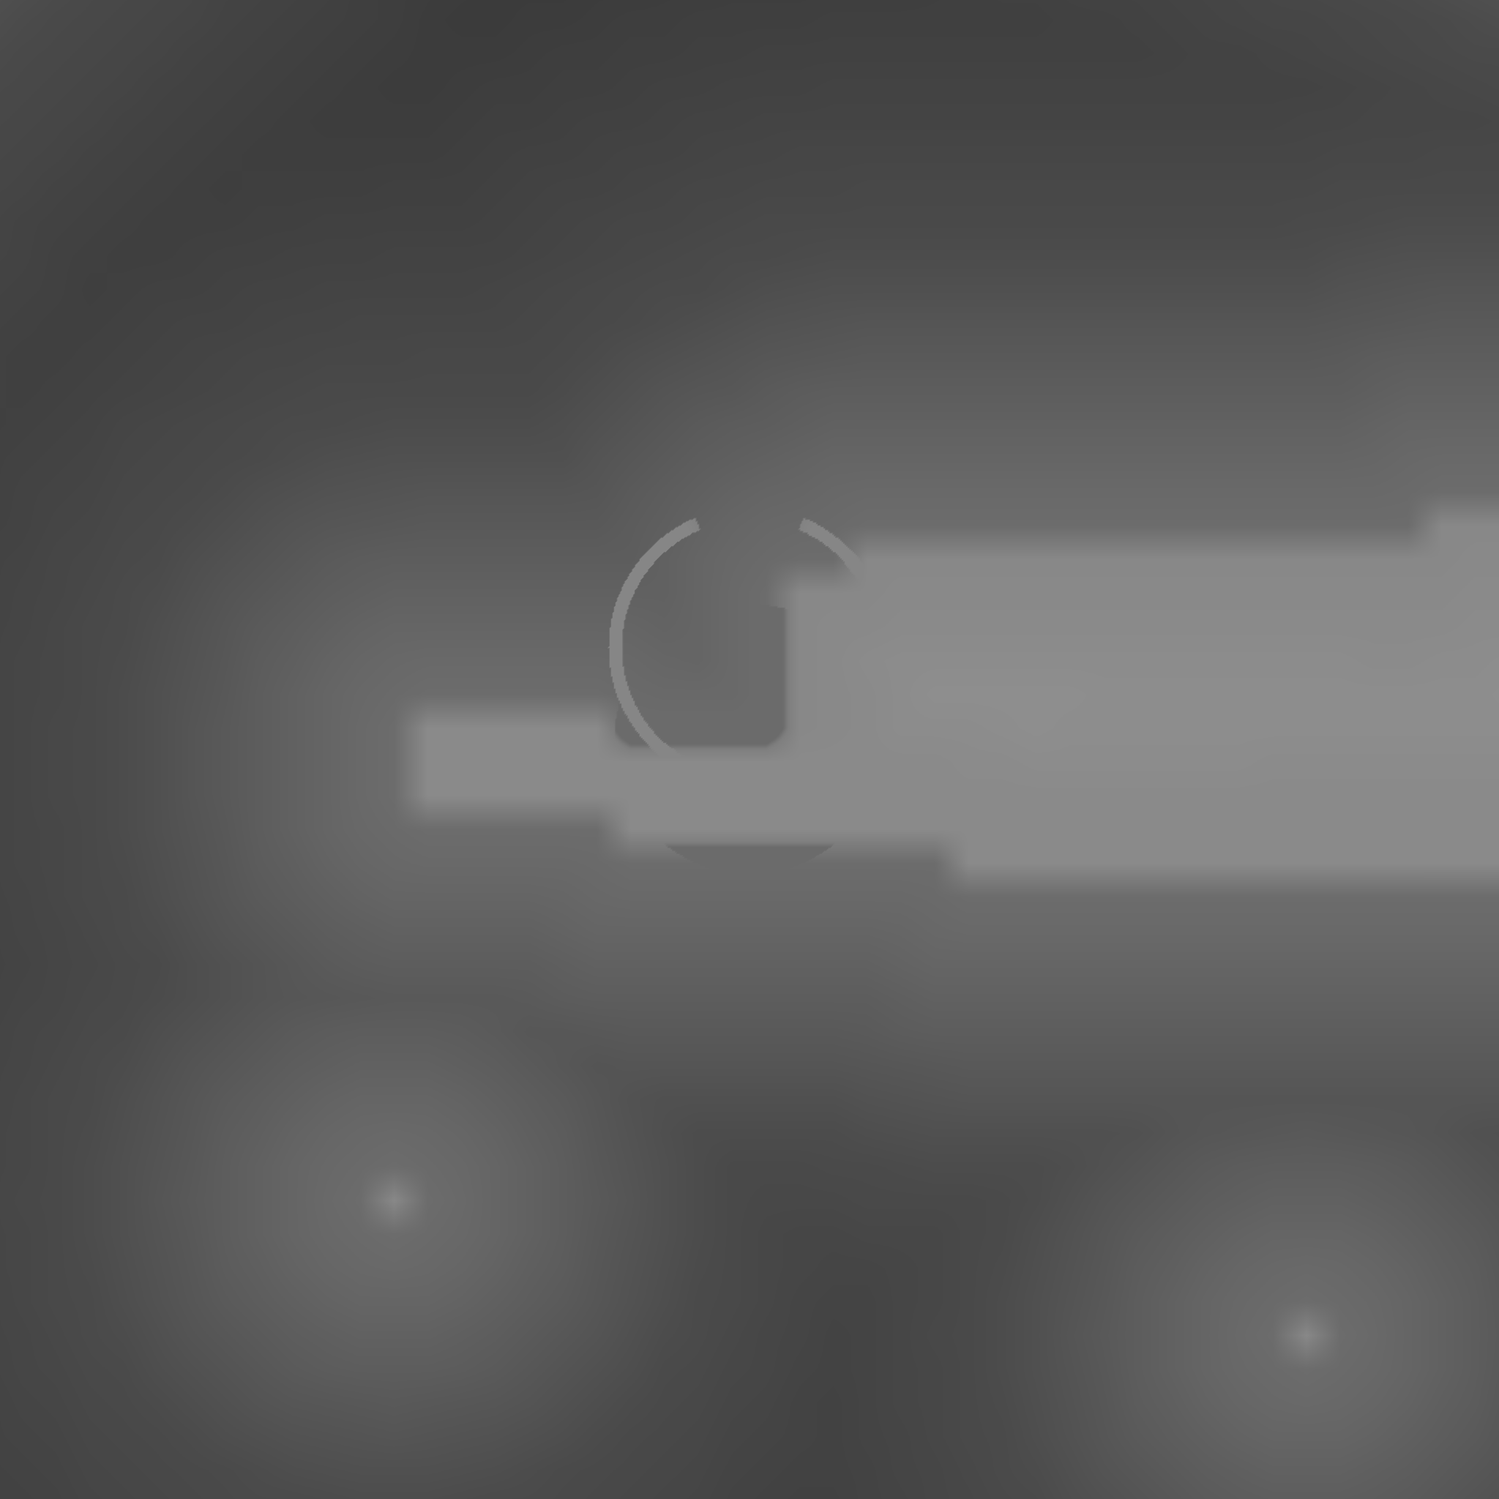
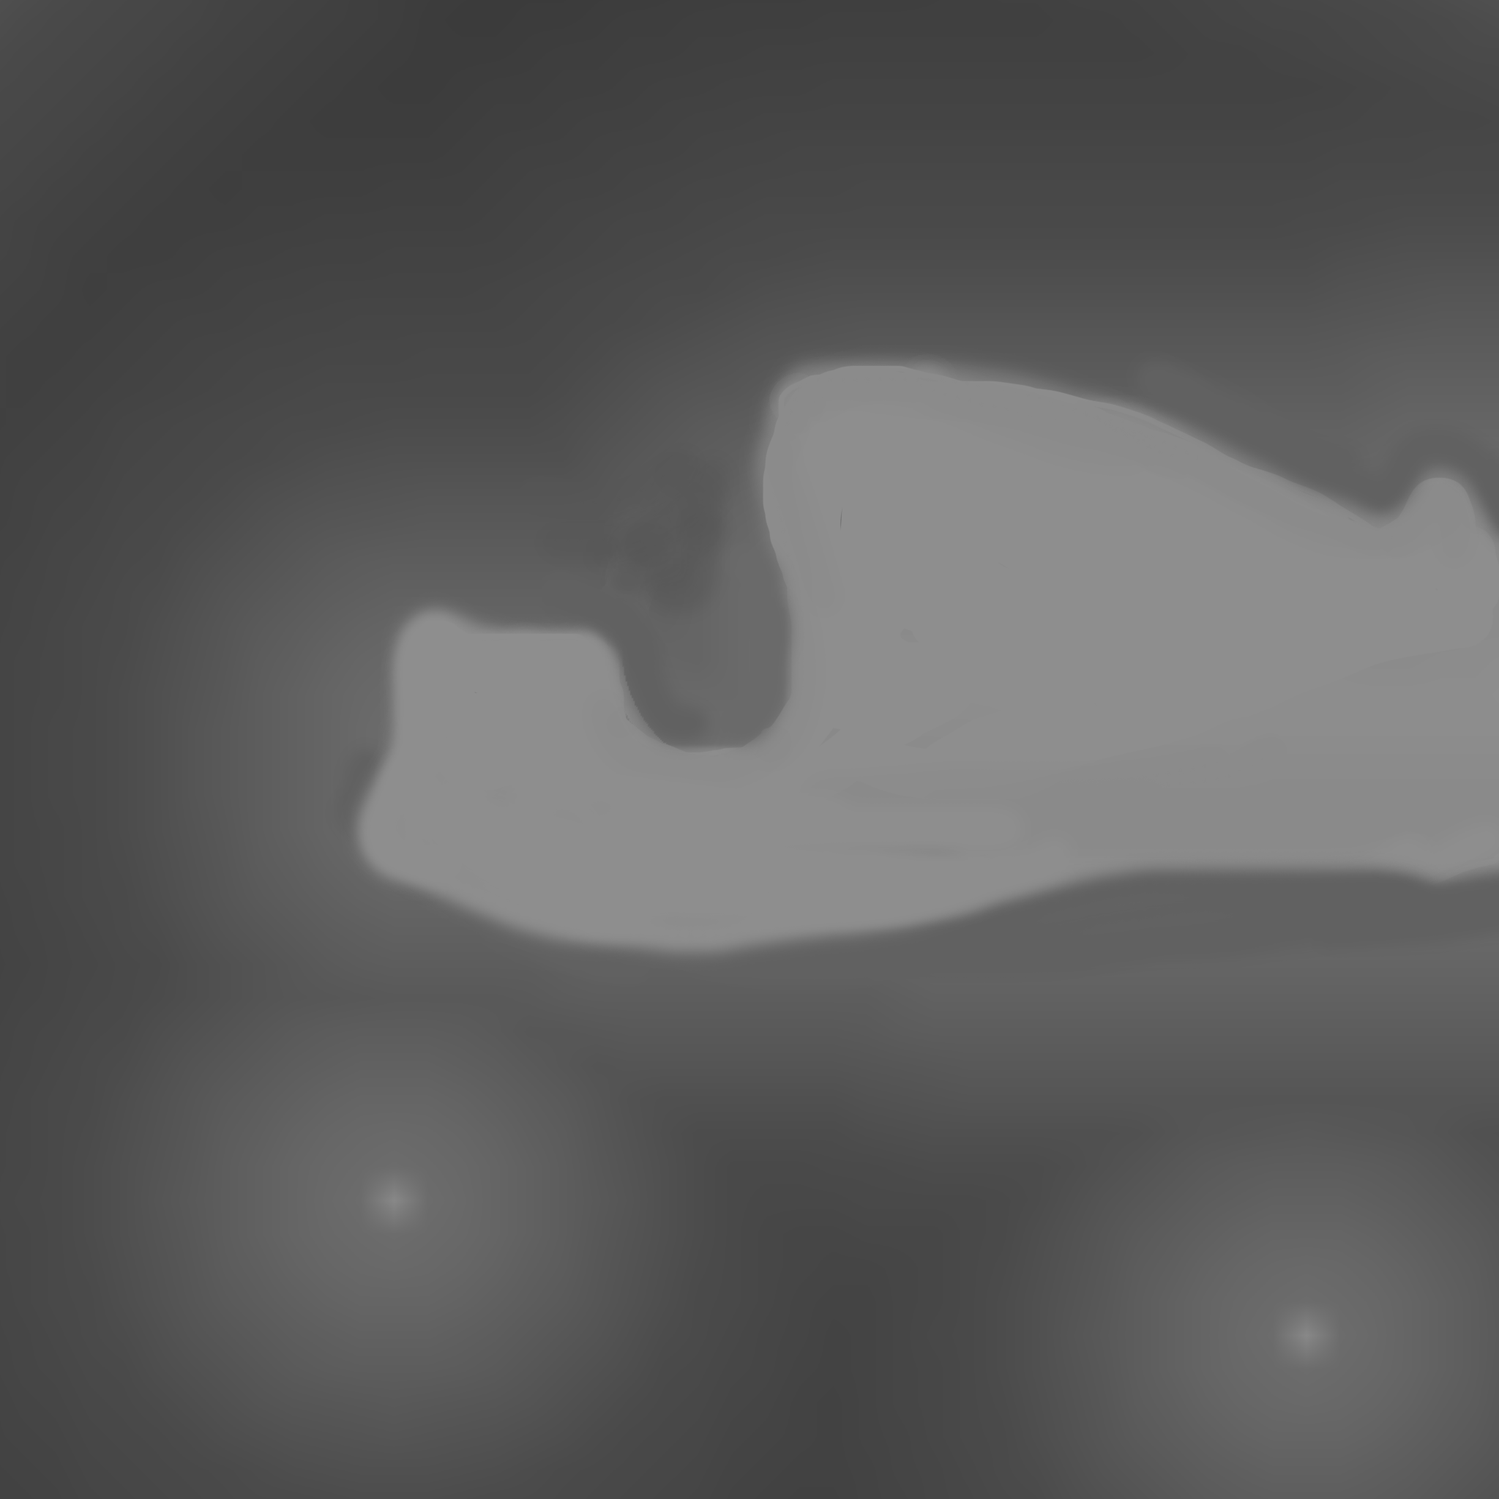
Le panache d'une épave : trois choses, et aucune dans le solveur
Le premier réflexe était d'aller voir WreckAir, et c'était le mauvais. Le noyau
était déjà fin — gorgées dont la taille suit le débit, vitesse de Davies et
Taylor, panache qui s'élargit avec la profondeur, dernier souffle gardé pour
l'instant où le plus haut de ses hauts passe sous l'eau. Tout ce qui manquait se
jouait ENTRE lui et l'œil.

UN CHAPELET, PAS UN NUAGE. Deux à sept bulles par gorgée, plafonnées à sept,
avec un commentaire qui l'assumait. Or un chapelet se COMPTE du regard, et c'est
ce qui le trahissait. Le nombre suit maintenant le volume ET LE TRAJET, de 8 à
46 : une poche qui traverse vingt mètres a vingt mètres pour se déchirer. Relevé
pendant un naufrage : 800 à 1000 bulles vivantes au lieu de quelques dizaines.

TOUTES MONTAIENT À LA MÊME ALLURE, et c'était le pire. La vitesse était tirée au
hasard autour de celle de la poche, sans aucun rapport avec la taille. Or un
panache réel SE TRIE en montant : les grosses filent, les fines traînent, il
s'étire et se délie. Toutes à la même vitesse, il défile d'un bloc comme un
décor. Elle vient donc du RAYON, par la loi que le noyau utilisait déjà, promue
en WreckAir.RiseSpeed — une définition pour deux usagers, ce qui garantit en
outre que les bulles qu'on regarde arrivent quand la gerbe crève.

  rayon   1,7 cm … 59 cm    montée  0,28 … 1,80 m/s

Six fois d'écart, et chaque bulle a du coup sa propre durée de vie. Le spectre
de tailles n'existait pas davantage : une puissance 2,6 met l'essentiel du
[…]

diff --git a/godot/scripts/BubbleNode.cs b/godot/scripts/BubbleNode.cs
@@ -22,13 +22,20 @@ namespace NavalSim;
 /// </summary>
 public partial class BubbleNode : Node3D
 {
-    const int Max = 900;
+    /* DE QUOI FAIRE UN NUAGE. Sept bulles par gorgée faisaient un chapelet, et un
+       chapelet se compte du regard — c'est précisément ce qui le trahissait. Une
+       poche qui traverse vingt mètres d'eau se déchire en dizaines de bulles, et
+       il en faut donc des milliers à flot. Un panneau non éclairé dans un seul
+       maillage multiplié ne coûte presque rien ; le plafond est là pour borner la
+       mémoire, pas pour épargner la carte. */
+    const int Max = 2600;
 
     struct Bubble
     {
         public Vector3 From;      // son départ, en repère local
         public float Rise, Life, Age, R, Seed;
         public float Depth0;      // la profondeur d'où elle part : c'est elle qui dit de combien elle enflera
+        public float Wob, Freq;   // de combien elle titube, et à quelle cadence
         public bool On;
     }
 
@@ -62,31 +69,65 @@ public partial class BubbleNode : Node3D
     /// <paramref name="volume"/> en m³, <paramref name="rise"/> sa vitesse de
     /// montée, <paramref name="travel"/> le temps qu'elle mettra à arriver.
     /// </summary>
-    public void Slug(Vector3 at, double volume, double rise, double travel)
+    public void Slug(Vector3 at, double volume, double rise, double travel, double spread)
     {
-        /* Moins de bulles qu'une poche n'en ferait, et c'est voulu : l'effet doit
-           rester DISCRET — un chapelet qu'on remarque sans qu'il occupe l'image. */
-        int n = Math.Clamp(2 + (int)(volume * 3), 2, 7);
+        /* COMBIEN ELLE SE DÉCHIRE EN MORCEAUX. Avec le volume, parce qu'une grosse
+           poche fait plus de débris ; et avec le TRAJET, parce qu'une poche qui
+           traverse vingt mètres d'eau a vingt mètres pour se déchirer, quand celle
+           qui part d'un mètre de fond arrive presque entière. */
+        int n = Math.Clamp(8 + (int)(volume * 14 + travel * 6), 8, 46);
+        double rBig = Math.Cbrt(3 * volume / (4 * Math.PI));
+        double depth = Math.Max(0.5, rise * travel);
+
         for (int i = 0; i < n; i++)
         {
             ref Bubble b = ref _b[_next];
             _next = (_next + 1) % Max;
             b.On = true;
-            b.Age = (float)(-0.35 * _rng.Randf() * travel);      // le chapelet s'étire en partant
-            b.Life = (float)travel + 0.4f;
-            b.Rise = (float)rise * (0.75f + 0.5f * _rng.Randf()); // les petites traînent, les grosses filent
-            /* PETITES AU DÉPART, ET QUI GROSSISSENT. Une bulle garde sa masse
-               d'air : en montant, la pression tombe et son volume enfle d'autant
-               (Boyle) — de dix mètres de fond à la surface, deux fois le volume,
-               un quart de rayon en plus. C'est le contraire d'une bulle dessinée
-               à taille fixe, et c'est ce qu'on voit d'une épave. */
-            b.R = (float)Math.Cbrt(volume / n) * (0.17f + 0.22f * _rng.Randf());
-            b.Depth0 = (float)Math.Max(0.5, rise * travel);
+
+            /* UN SPECTRE, ET NON UNE TAILLE. Ce qui manquait le plus : toutes les
+               bulles d'une gorgée avaient à peu près le même calibre, ce qui ne
+               ressemble à rien — une poche qui se déchire donne quelques gros
+               morceaux et une poussière de fines. La puissance 2,6 met l'essentiel
+               du tirage en bas de la gamme et laisse passer de loin en loin une
+               grosse, qui est celle qu'on suit du regard. */
+            float u = _rng.Randf();
+            b.R = (float)(rBig * (0.04 + 0.46 * Math.Pow(u, 2.6)));
+
+            /* ET SA VITESSE VIENT DE SON RAYON, par la loi du noyau. C'est le
+               changement qui fait tout : les grosses filent à un mètre et demi par
+               seconde, les fines traînent à un quart, si bien que le panache SE
+               TRIE en montant au lieu de défiler d'un bloc. Elles n'arrivent plus
+               ensemble — ce qui est exactement ce qu'on voit d'une épave. */
+            b.Rise = (float)(WreckAir.RiseSpeed(b.R) * (0.9 + 0.2 * _rng.Randf()));
+
+            /* CE QU'ELLE TITUBE. Une bulle ne monte pas droit : elle zigzague, et
+               d'autant plus lentement qu'elle est grosse — une fine frétille, une
+               grosse calotte se balance. L'amplitude suit sa taille, la cadence
+               fait l'inverse, et c'est ce désaccord qui empêche le panache entier
+               de battre à l'unisson comme il le faisait. */
+            b.Wob = (float)(0.10 + 3.2 * b.R) * (0.6f + 0.8f * _rng.Randf());
+            b.Freq = (float)(3.4 / (0.22 + 5.0 * b.R)) * (0.8f + 0.4f * _rng.Randf());
+
+            b.Age = (float)(-0.5 * _rng.Randf() * Math.Max(0.35, travel));
+            b.Depth0 = (float)depth;
+            /* CHACUNE A SA PROPRE DURÉE, tirée de SA vitesse et non de celle de la
+               poche : c'est le corollaire du tri, et sans lui les fines
+               disparaîtraient en pleine eau pendant que les grosses seraient
+               encore en route. */
+            b.Life = (float)(depth / b.Rise) + 0.5f;
             b.Seed = _rng.Randf() * 100;
-            /* Elles sortent de DESSOUS la coque : l'air fuit par le bas d'une
-               épave qui s'enfonce, et ce qui crèverait dans son contour serait de
-               toute façon caché par son propre bordé. */
-            b.From = at + new Vector3((_rng.Randf() - 0.5f) * 1.6f, -0.6f - 1.2f * _rng.Randf(), (_rng.Randf() - 0.5f) * 1.6f);
+
+            /* ET LE PANACHE A LA LARGEUR QUE LE NOYAU LUI DONNE, laquelle enfle
+               avec la profondeur. Elles sortaient d'une boîte d'un mètre et demi
+               quelle que soit la profondeur d'où elles venaient : le dessin
+               contredisait le modèle, qui sait depuis toujours qu'un panache
+               s'élargit en montant. Tiré en racine pour couvrir le disque
+               uniformément, sans quoi tout se masse au centre. */
+            double ang = _rng.Randf() * Math.PI * 2, rad = spread * Math.Sqrt(_rng.Randf());
+            b.From = at + new Vector3((float)(Math.Cos(ang) * rad),
+                                      -0.6f - 1.2f * _rng.Randf(),
+                                      (float)(Math.Sin(ang) * rad));
         }
     }
 
@@ -101,14 +142,18 @@ public partial class BubbleNode : Node3D
             b.Age += (float)dt;
             if (b.Age > b.Life) { b.On = false; continue; }
             if (b.Age < 0) continue;
-            /* Sa route : droit vers le haut, avec le tremblement d'une bulle qui
-               roule sur elle-même — une bulle ne monte jamais droit. */
+            /* SA ROUTE. Droit vers le haut, et un zigzag autour — mais un zigzag
+               et non une hélice : deux sinusoïdes en quadrature parfaite faisaient
+               tourner chaque bulle sur un cercle régulier, ce qui se lit comme un
+               ressort. Deux cadences qui ne tombent pas juste l'une sur l'autre
+               (1 et 1,7) donnent une route qui ne se referme jamais sur elle-même,
+               et c'est cela qu'on reconnaît. */
             float y = b.From.Y + b.Rise * b.Age;
-            float wob = 0.25f + 2.5f * b.R;
+            float ph = b.Age * b.Freq + b.Seed;
             var p = new Vector3(
-                b.From.X + Mathf.Sin(b.Age * 2.7f + b.Seed) * wob,
+                b.From.X + (Mathf.Sin(ph) + 0.45f * Mathf.Sin(ph * 1.7f + b.Seed)) * b.Wob,
                 y,
-                b.From.Z + Mathf.Cos(b.Age * 2.1f + b.Seed * 1.7f) * wob);
+                b.From.Z + (Mathf.Cos(ph * 1.13f + b.Seed) + 0.45f * Mathf.Sin(ph * 0.61f)) * b.Wob);
             // arrivée en haut : elle crève, et c'est la gerbe du noyau qui prend le relais
             double surf = sea.Sample(p.X, p.Z, t);
             if (p.Y > surf - 0.05) { b.On = false; continue; }
@@ -121,7 +166,9 @@ public partial class BubbleNode : Node3D
             float grow = Mathf.Pow((10f + b.Depth0) / (10f + depth), 1f / 3f)
                        * (1f + 0.6f * Mathf.Clamp(1f - depth / Mathf.Max(1f, b.Depth0), 0, 1));
             _mm.SetInstanceTransform(live, new Transform3D(Basis.Identity.Scaled(Vector3.One * b.R * grow * 2.0f), p));
-            _mm.SetInstanceCustomData(live, new Color(b.Seed, b.R, 0, 1));
+            // le rayon VRAI, celui du moment : c'est lui qui dit au shader si cette
+            // bulle-là est une perle ou une calotte
+            _mm.SetInstanceCustomData(live, new Color(b.Seed, b.R * grow, 0, 1));
             live++;
             if (live >= Max) break;
         }

diff --git a/core/NavalSim.Core/WreckAir.cs b/core/NavalSim.Core/WreckAir.cs
@@ -54,13 +54,42 @@ public sealed class WreckAir
     public Action<Vec3d, double, double, double>? OnBurst;
     /// <summary>Son dernier souffle : où, et combien de mètres cubes d'un coup.</summary>
     public Action<Vec3d, double>? OnLastBreath;
-    /// <summary>Une poche qui PART du fond : d'où (monde), son volume, sa vitesse de montée, et combien de temps elle a à monter.</summary>
-    public Action<Vec3d, double, double, double>? OnSlug;
+    /// <summary>
+    /// Une poche qui PART du fond : d'où (monde), son volume, sa vitesse de
+    /// montée, le temps qu'elle a à monter, et LA LARGEUR DU PANACHE.
+    ///
+    /// Cette dernière manquait, et le dessin contredisait donc le modèle : ici on
+    /// sait qu'un panache s'élargit avec la profondeur — il vaut des mètres
+    /// au-dessus d'une épave par vingt brasses —, mais les bulles qu'on voyait
+    /// monter sortaient toujours d'une boîte d'un mètre et demi, quelle que soit
+    /// la profondeur d'où elles venaient.
+    /// </summary>
+    public Action<Vec3d, double, double, double, double>? OnSlug;
 
     /// <summary>Les bouillons de cette image, le plus fort d'abord — à poser dans le champ d'écume.</summary>
     public IReadOnlyList<Boil> Boils => _list;
 
     public WreckAir(Func<double>? random = null) { _rng = random ?? new Random().NextDouble; }
+
+    /// <summary>
+    /// LA VITESSE DE MONTÉE D'UNE POCHE D'AIR — la seule loi de tout ceci, et
+    /// elle sert maintenant aux deux bouts : ici pour savoir QUAND l'air arrive,
+    /// et aux bulles qu'on voit monter pour savoir à quelle allure chacune s'en
+    /// va. Les deux doivent venir du même calcul, sans quoi le chapelet qu'on
+    /// regarde n'arrive pas quand la gerbe crève.
+    ///
+    /// Davies et Taylor : une calotte sphérique monte à 0,71·√(g·r), quelle que
+    /// soit sa forme de détail. Sous quelques centimètres la loi ne vaut plus —
+    /// une petite bulle est une sphère tenue par sa tension de surface, et sa
+    /// vitesse plafonne autour de 0,25 m/s quelle que soit sa taille. Le maximum
+    /// donne ce second régime sans qu'on ait à l'écrire.
+    ///
+    /// C'EST CE QUI TRIE UN PANACHE : les grosses filent à un mètre et demi par
+    /// seconde, les fines traînent à un quart. Un chapelet dont toutes les bulles
+    /// montent à la même allure se lit comme un décor qui défile ; celui-ci
+    /// s'étire de lui-même, les grosses en tête.
+    /// </summary>
+    public static double RiseSpeed(double r) => Math.Max(0.25, 0.71 * Math.Sqrt(9.81 * r));
 
     /* L'air ne sort pas d'une coque en filet continu mais par GORGÉES — il
        s'amasse sous un barrot jusqu'à ce que la poche déborde. La taille suit le
@@ -101,7 +130,7 @@ public sealed class WreckAir
                     s.Owed -= V;
                     s.Gulp = NextGulp(s.Flux);
                     double r = Math.Cbrt(3 * V / (4 * Math.PI));
-                    double rise = 0.71 * Math.Sqrt(9.81 * r);
+                    double rise = RiseSpeed(r);
                     /* Un panache s'élargit en montant : plus elle est profonde,
                        plus large est la tache qu'il crève — le bouillon au-dessus
                        d'une épave profonde est vaste et lent, celui d'une coque
@@ -135,7 +164,7 @@ public sealed class WreckAir
                     }
                     _rising.Add(new Slug { X = x, Z = z, V = V, R = r, Rise = rise, Spread = spread, At = Clock + depth / rise });
                     // et on la MONTRE : sans cela l'air ne se voyait qu'en crevant la surface
-                    OnSlug?.Invoke(new Vec3d(x, c.Vent.Y, z), V, rise, depth / rise);
+                    OnSlug?.Invoke(new Vec3d(x, c.Vent.Y, z), V, rise, depth / rise, spread);
                 }
                 if (s.Owed > 20) s.Owed = 20;      // jamais un arriéré qui éclate d'un coup
             }
@@ -243,14 +272,14 @@ public sealed class WreckAir
         foreach (var (off, share, delay) in shots)
         {
             double v = V * share, r = Math.Cbrt(3 * v / (4 * Math.PI));
-            double rise0 = 0.71 * Math.Sqrt(9.81 * r);
+            double rise0 = RiseSpeed(r);
             _rising.Add(new Slug
             {
                 X = last.X + fx * off * L, Z = last.Z + fz * off * L,
                 V = v, R = r, Rise = rise0, Spread = 0.25 * L,
                 At = Clock + delay, Big = true
             });
-            OnSlug?.Invoke(new Vec3d(last.X + fx * off * L, last.Y - 1.0, last.Z + fz * off * L), v, rise0, delay);
+            OnSlug?.Invoke(new Vec3d(last.X + fx * off * L, last.Y - 1.0, last.Z + fz * off * L), v, rise0, delay, 0.25 * L);
         }
         OnLastBreath?.Invoke(last, V);
     }

diff --git a/godot/scripts/ShipDemo.Wreck.cs b/godot/scripts/ShipDemo.Wreck.cs
@@ -23,8 +23,8 @@ public partial class ShipDemo
         // la gerbe basse que chaque poche soulève en crevant, et le bouillon qui reste
         _wreckAir.OnBurst = (at, water, speed, jet) => _spray.Pool.Burst(at, water, speed, jet);
         // ce qu'on voit du trajet : la poche elle-même, qui monte en chapelet
-        _wreckAir.OnSlug = (at, v, rise, travel) =>
-            _bubbles.Slug(new Vector3((float)at.X, (float)at.Y, (float)at.Z), v, rise, travel);
+        _wreckAir.OnSlug = (at, v, rise, travel, spread) =>
+            _bubbles.Slug(new Vector3((float)at.X, (float)at.Y, (float)at.Z), v, rise, travel, spread);
         _flotsam.BottleOneIn = _bottleOneIn;
         // ce qui crève la surface en remontant jette son peu d'eau, par la même réserve
         _flotsam.OnBreak = (at, water, speed) => _spray.Pool.Burst(at, water, speed);

diff --git a/docs/journal.md b/docs/journal.md
@@ -11348,6 +11348,80 @@ C'est la même famille de faute que la matière de toile gardée en cache ou que
 maillage né après la passe qui devait le ranger : **une valeur qui n'est juste
 qu'à partir de la deuxième image est un piège pour tout ce qui parle avant.**
 
+## Le panache d'une épave : trois choses, et aucune dans le solveur (Godot)
+
+Signalé : les bulles qui s'échappent d'une épave sont trop simplistes.
+
+Le premier réflexe était d'aller voir `WreckAir`, et c'était le mauvais. Le
+noyau était déjà fin : il compte l'air que chaque compartiment expire, le lâche
+par GORGÉES dont la taille suit le débit, le fait monter à la vitesse de Davies
+et Taylor, élargit le panache avec la profondeur et garde son dernier souffle
+pour l'instant où le plus haut de ses hauts passe sous l'eau. Tout ce qui
+manquait se jouait ENTRE lui et l'œil.
+
+### C'était un chapelet, pas un nuage
+
+Deux à sept bulles par gorgée, plafonnées à sept, avec un commentaire qui
+l'assumait — « l'effet doit rester DISCRET ». Or un chapelet se COMPTE du
+regard, et c'est précisément ce qui le trahissait : l'œil voit sept objets là où
+il attend une masse.
+
+Le nombre suit maintenant le volume ET LE TRAJET, de 8 à 46 : une poche qui
+traverse vingt mètres d'eau a vingt mètres pour se déchirer, quand celle qui
+part d'un mètre de fond arrive presque entière. Relevé pendant un naufrage :
+**800 à 1000 bulles vivantes** au lieu de quelques dizaines.
+
+### Toutes montaient à la même allure, et c'était le pire
+
+La vitesse était tirée au hasard autour de celle de la poche — `rise * (0,75 +
+0,5·rand)` —, **sans aucun rapport avec la taille de la bulle**. C'est ce détail
+qui tuait l'effet, et il faut le dire précisément : un panache réel SE TRIE en
+montant, les grosses filent et les fines traînent, si bien qu'il s'étire et se
+délie. Toutes à la même vitesse, il défile d'un bloc, comme un décor.
+
+La vitesse vient donc du RAYON, par la loi que le noyau utilisait déjà —
+promue en `WreckAir.RiseSpeed`, une définition pour deux usagers, ce qui garantit
+en plus que les bulles qu'on regarde arrivent quand la gerbe crève.
+
+    rayon   1,7 cm … 59 cm    (moyenne 15)
+    montée  0,28 … 1,80 m/s
+
+Six fois d'écart. Et chaque bulle a du coup sa PROPRE durée de vie, tirée de sa
+propre vitesse : sans cela les fines disparaissaient en pleine eau pendant que
+les grosses étaient encore en route.
+
+Le spectre de tailles n'existait pas davantage — toutes avaient le même calibre
+à un tiers près. Une puissance 2,6 met l'essentiel du tirage en bas de la gamme
+et laisse passer de loin en loin une grosse, qui est celle qu'on suit du regard.
+
+### Le dessin contredisait le modèle
+
+`WreckAir` calcule un `spread` qui enfle avec la profondeur — le bouillon d'une
+épave profonde est vaste et lent, celui d'une coque en surface est serré — et ne
+le disait à PERSONNE. Les bulles sortaient d'une boîte d'un mètre et demi,
+qu'elles viennent de deux mètres ou de trente. `OnSlug` porte maintenant la
+largeur du panache.
+
+C'est la même faute que la demi-laize mesurée dans le repère de la voile quand
+les flammes s'étalaient dans celui du bord : **une grandeur calculée juste, et
+que celui qui dessine ne reçoit pas.**
+
+### Deux retouches de forme
+
+Le zigzag était une hélice PARFAITE — `sin(2,7·t)` et `cos(2,1·t)` en quadrature
+—, ce qui se lit comme un ressort. Deux cadences qui ne tombent pas juste l'une
+sur l'autre donnent une route qui ne se referme jamais. Et l'amplitude suit la
+taille pendant que la cadence fait l'inverse : une fine frétille, une grosse
+calotte se balance.
+
+Et les grosses sont des CALOTTES. Sous le centimètre la tension de surface
+l'emporte et la bulle est une sphère ; au-delà de quelques-uns c'est la poussée
+qui gagne, et la poche s'aplatit, plus large que haute, creuse et sombre par le
+dessous. C'est ce dégradé, plus que la forme, qui la fait lire comme de l'air et
+non comme une bille.
+
+Coût d'un sabordage complet, explosion et embruns compris : **7,58 ms**.
+
 ## Conventions
 
 Interface et commentaires en français pour l'utilisateur ; commentaires de code
